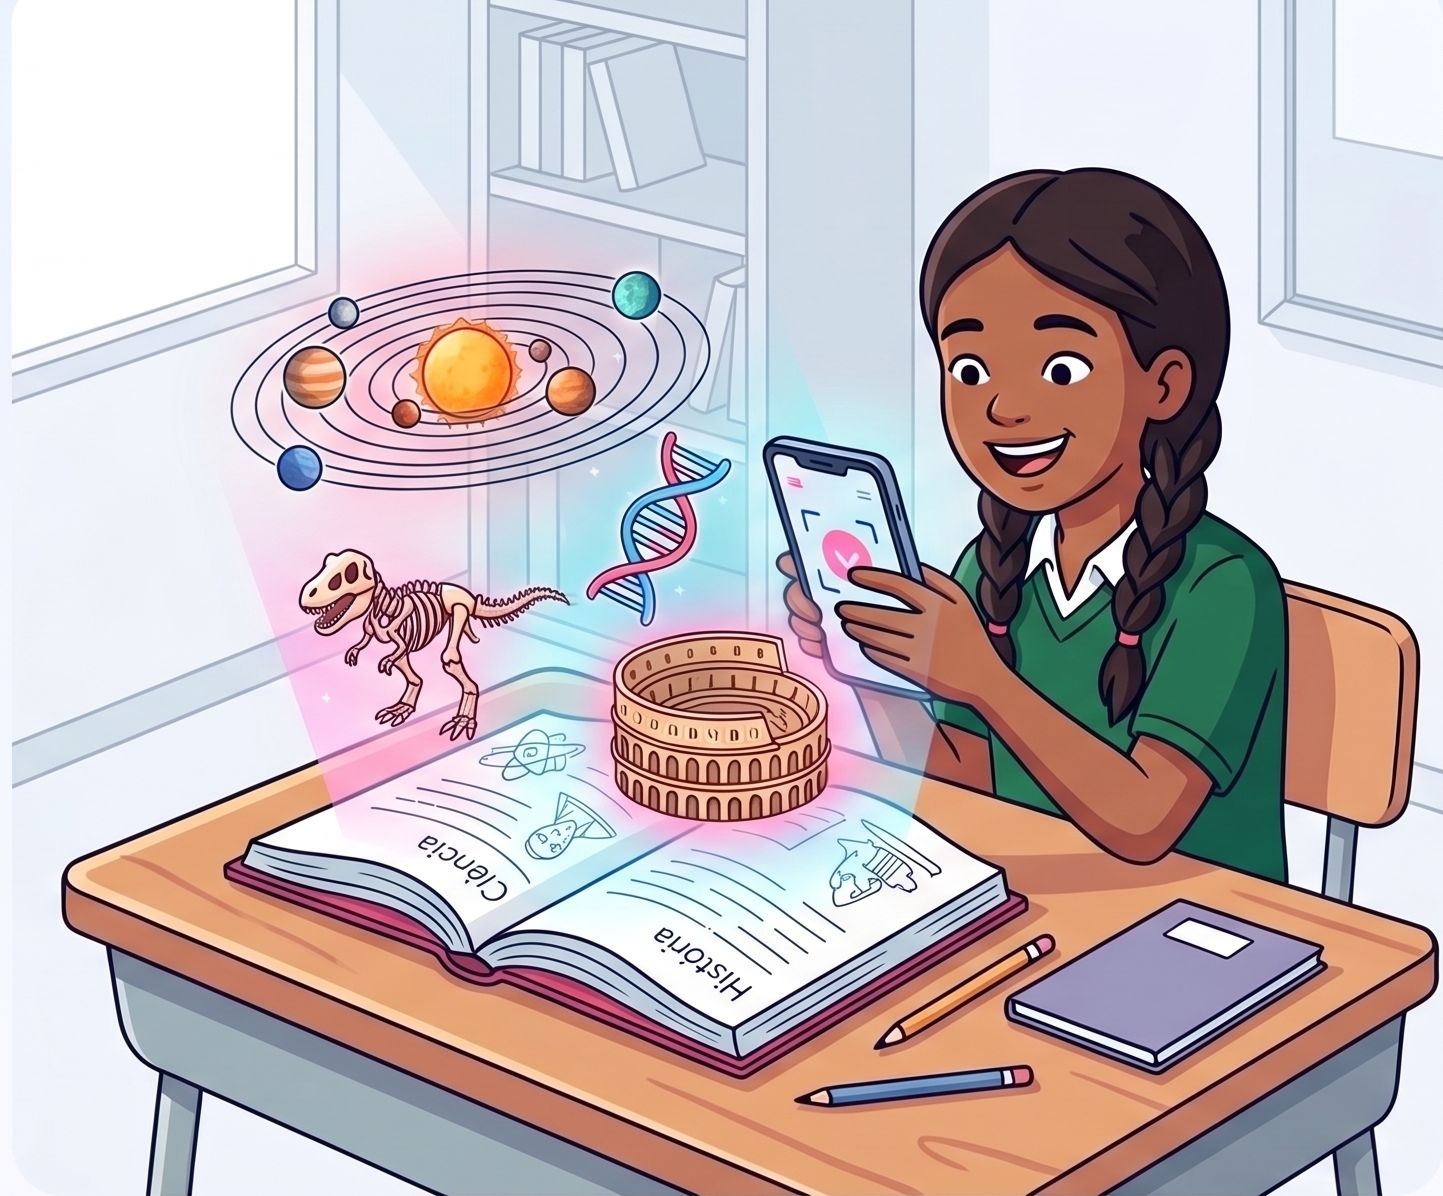
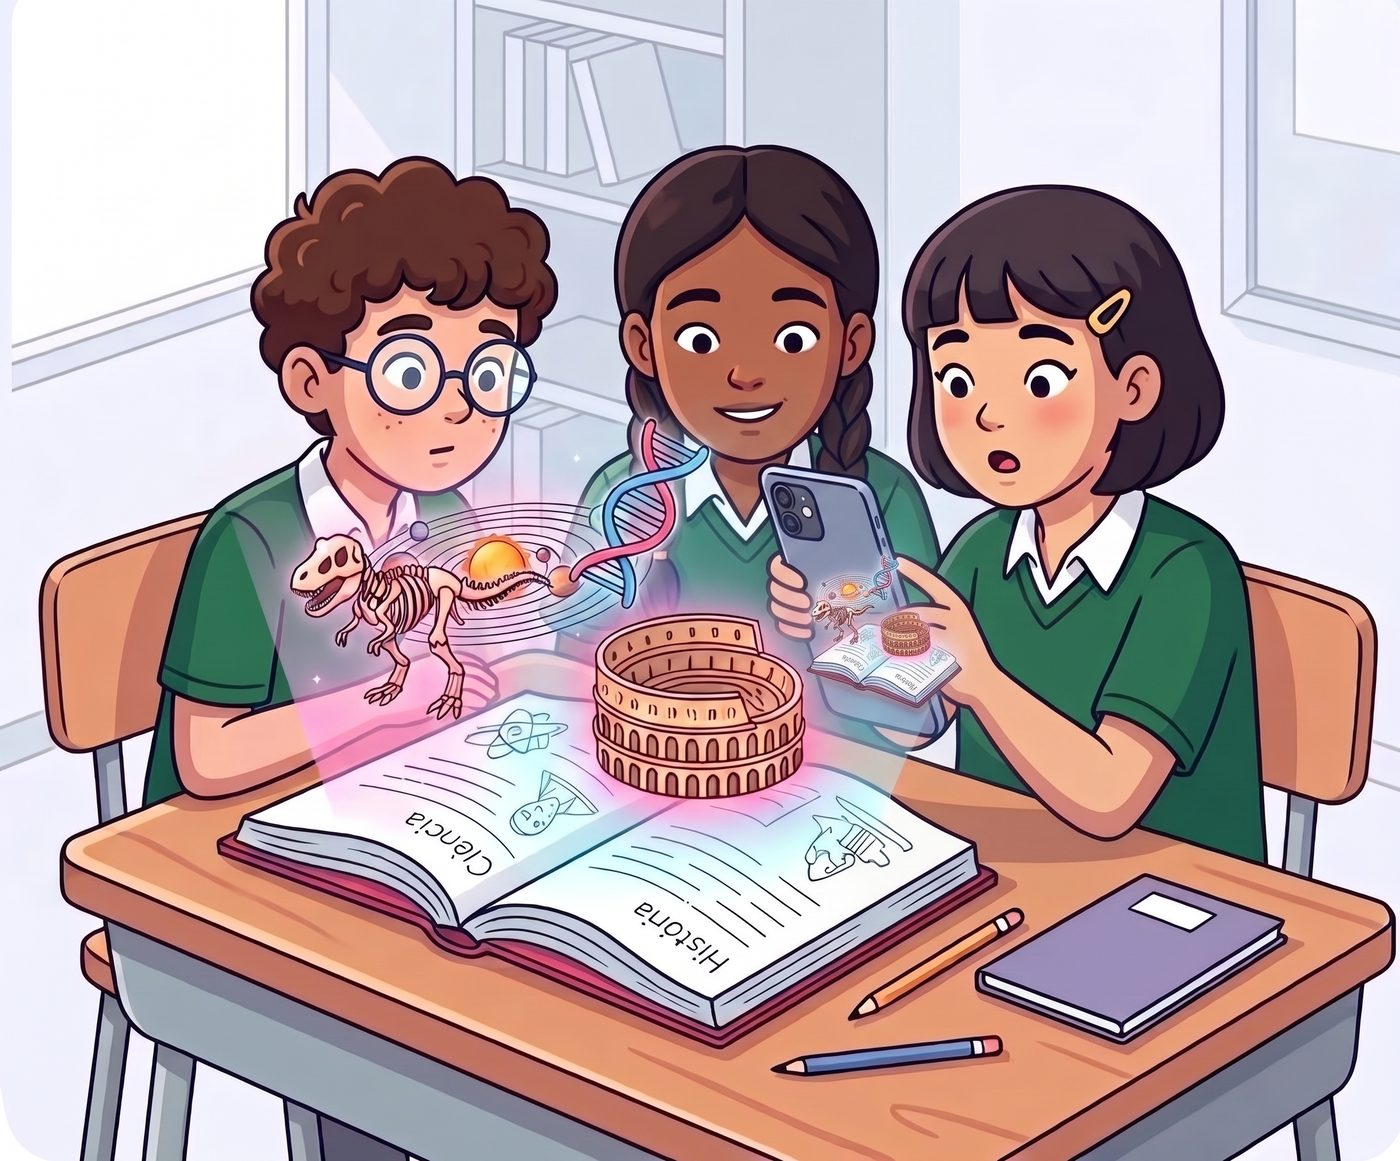
Reposiciona a landing page com base no feedback da mentoria
A banca apontou que o projeto focou em acessibilidade técnica (funciona
em qualquer celular) mas não nos pontos que o tema do hackathon
("relação consciente entre tecnologia e educação") realmente cobra:
celular é restrito em escolas, nem todo aluno tem um, e "ser legal" não
basta pra competir com redes sociais pela atenção.

Resposta, espalhada em vários pontos da página (não um bloco isolado,
de propósito):
- Hero: troca a ilustração (era 1 aluna sozinha com o celular, agora um
  grupo reagindo junto) e ajusta a chamada pra "descobrir junto com a
  turma" em vez de "direto na palma da mão". Também tira a alegação de
  que o bicho "sai da página" — não é mais verdade desde que o cartão
  de prévia usa <model-viewer> (ver CLAUDE.md); a descrição agora é
  precisa (ganha vida na tela + modo avançado planta em tamanho real).
- Seção nova "Feito pra ser vivido em grupo": resposta direta a uso
  pontual/guiado pelo professor (compatível com a legislação sobre
  celular em escola), não depender de celular por aluno (descoberta em
  grupo, um já basta) e o porquê de não competir com feed infinito.
  Público declarado: crianças e adolescentes, sem linguagem excludente.
- Carrossel: reescreve o slide de bem-estar (era vago) pra reforçar o
  mesmo discurso de descoberta em grupo.
- "Quem apoia esse projeto" (logos placeholder de patrocinador) vira
  "Nos apoie": formas reais de ajudar o projeto a chegar em escolas.
[…]

diff --git a/index.html b/index.html
@@ -4,7 +4,7 @@
   <meta charset="UTF-8" />
   <meta name="viewport" content="width=device-width, initial-scale=1.0" />
   <title>Vivalivros — Aprenda escaneando o mundo</title>
-  <meta name="description" content="Aponte a câmera do celular pra um livro didático e veja a matéria ganhar vida em Realidade Aumentada. Um projeto de escola sobre tecnologia, aprendizado e uso consciente do celular." />
+  <meta name="description" content="Aponte a câmera do celular pra um livro didático e veja a matéria ganhar vida em Realidade Aumentada, em grupo com a turma. Um projeto de escola pra crianças e adolescentes sobre tecnologia, aprendizado e uso consciente do celular." />
   <link rel="preconnect" href="https://fonts.googleapis.com" />
   <link rel="preconnect" href="https://fonts.gstatic.com" crossorigin />
   <link href="https://fonts.googleapis.com/css2?family=Nunito:wght@400;600;700;800&family=Quicksand:wght@600;700&display=swap" rel="stylesheet" />
@@ -75,7 +75,7 @@
         <a href="#topo">Início</a>
         <a href="#como-funciona">Como Funciona</a>
         <a href="#conteudos">Conteúdos</a>
-        <a href="#patrocinadores">Patrocinadores</a>
+        <a href="#patrocinadores">Nos apoie</a>
         <a href="#contato">Contato</a>
         <a href="#comece" class="btn-primary site-nav__cta">Entrar / Criar Conta</a>
       </nav>
@@ -96,14 +96,14 @@
             Aponte a câmera do celular pras imagens do seu livro didático e
             veja a matéria ganhar vida em Realidade Aumentada — sem
             precisar instalar nada. Ciência, história e o que você tá
-            estudando, direto na palma da mão!
+            estudando, num momento pra descobrir junto com a turma.
           </p>
           <div class="hero__actions">
             <a href="#comece" class="btn-primary">Comece agora</a>
             <a href="#como-funciona" class="btn-secondary">Ver como funciona</a>
           </div>
         </div>
-        <img class="hero__art" src="assets/img/HeroVivaLivros.jpg" alt="Aluna sorrindo segurando o celular, com conteúdo em Realidade Aumentada saindo de um livro didático aberto na carteira: sistema solar, DNA, esqueleto de dinossauro e um coliseu." width="1443" height="1196" />
+        <img class="hero__art" src="assets/img/HeroVivaLivros.jpg" alt="Três alunos reunidos ao redor de um celular só, reagindo juntos ao conteúdo em Realidade Aumentada que aparece sobre o livro didático aberto na carteira: sistema solar, DNA, esqueleto de dinossauro e um coliseu." width="1400" height="1161" />
       </div>
     </section>
 
@@ -132,7 +132,7 @@
           </div>
           <div class="meta-card">
             <strong class="meta-card__number">100%</strong>
-            <span class="meta-card__label">de foco em uso consciente do celular</span>
+            <span class="meta-card__label">de foco em uso consciente e coletivo do celular</span>
           </div>
         </div>
       </div>
@@ -151,8 +151,8 @@
                 </div>
                 <h3>O que é Realidade Aumentada educacional?</h3>
                 <p>É like mágica, mas é tecnologia! A câmera do celular
-                  reconhece a imagem do seu livro e faz um modelo 3D
-                  "sair" da página, animado, na tela.</p>
+                  reconhece a imagem do seu livro e a matéria ganha vida
+                  na hora, animada, na tela.</p>
               </li>
               <li class="carousel__slide">
                 <div class="carousel__art img-placeholder" data-placeholder-label="Ilustração: mão segurando celular escaneando uma página de livro">
@@ -173,13 +173,13 @@
                   conteúdo que você já vê em sala de aula.</p>
               </li>
               <li class="carousel__slide">
-                <div class="carousel__art img-placeholder" data-placeholder-label="Ilustração: aluno respirando/tranquilo, celular de lado">
+                <div class="carousel__art img-placeholder" data-placeholder-label="Ilustração: grupo de alunos reunidos ao redor de um celular, sorrindo juntos">
                   <svg class="icon icon--lg"><use href="#icon-smile"></use></svg>
                 </div>
-                <h3>Bem-estar em primeiro lugar</h3>
-                <p>A gente lembra você de fazer pausas, respirar e não
-                  ficar preso na tela — porque aprender é ótimo, mas o
-                  seu bem-estar vem sempre antes.</p>
+                <h3>Feito pra descobrir em grupo</h3>
+                <p>Não precisa de um celular por aluno — a experiência foi
+                  pensada pra reunir a turma ao redor de uma descoberta,
+                  não pra isolar cada um na própria tela.</p>
               </li>
             </ul>
           </div>
@@ -231,6 +231,44 @@
       </div>
     </section>
 
+    <!-- Por que em grupo / uso consciente — resposta direta a três
+         preocupações reais: celular na escola (uso pontual, guiado pelo
+         professor), quem não tem celular próprio (um só já basta pro
+         grupo) e "por que isso e não uma rede social" (é uma descoberta
+         coletiva com começo e fim, não um feed infinito). -->
+    <section class="steps" id="uso-consciente">
+      <div class="container">
+        <h2 class="section-title section-title--center">Feito pra ser vivido em grupo</h2>
+        <p class="section-subtitle section-subtitle--center">
+          Enquanto o feed prende cada um sozinho na própria tela, aqui a
+          ideia é o contrário.
+        </p>
+        <div class="steps__grid">
+          <div class="step-card">
+            <svg class="icon icon--lg"><use href="#icon-user"></use></svg>
+            <h3>Descoberta em grupo</h3>
+            <p>A matéria ganhando vida na tela é motivo pra chamar todo
+              mundo ao redor — não precisa de um celular por aluno, um
+              já é suficiente pra turma inteira descobrir junto.</p>
+          </div>
+          <div class="step-card">
+            <svg class="icon icon--lg"><use href="#icon-check"></use></svg>
+            <h3>Uso pontual, guiado pelo professor</h3>
+            <p>O celular entra em sala num momento específico da aula,
+              com começo e fim definidos pelo professor — não é uso
+              livre, é uso com propósito.</p>
+          </div>
+          <div class="step-card">
+            <svg class="icon icon--lg"><use href="#icon-smile"></use></svg>
+            <h3>Feito pra crianças e adolescentes</h3>
+            <p>Pensado pra esse público aprender brincando — e, sem
+              forçar a barra, quem testou com idades bem diferentes
+              também curtiu.</p>
+          </div>
+        </div>
+      </div>
+    </section>
+
     <!-- Comece agora: entrada real do app -->
     <section class="comece" id="comece">
       <div class="container">
@@ -263,22 +301,41 @@
       </div>
     </section>
 
-    <!-- Patrocinadores -->
+    <!-- Nos apoie (antes "Patrocinadores"/logos placeholder — trocado por
+         formas concretas de apoiar, já que não há patrocínio confirmado
+         ainda; mais honesto e mais útil pra quem visita a página). -->
     <section class="sponsors" id="patrocinadores">
       <div class="container">
-        <h2 class="section-title section-title--center">Quem apoia esse projeto</h2>
+        <h2 class="section-title section-title--center">Nos apoie</h2>
         <p class="section-subtitle section-subtitle--center">
-          Espaço reservado pra logos de apoiadores confirmados — ainda não
-          temos patrocínio fechado, esses são só placeholders.
+          A Vivalivros nasceu num hackathon — pra chegar em escolas de
+          verdade, a gente precisa de ajuda. Veja como dá pra apoiar:
         </p>
-        <div class="sponsors__grid">
-          <div class="sponsor-slot img-placeholder" data-placeholder-label="Logo do patrocinador 1">Patrocinador</div>
-          <div class="sponsor-slot img-placeholder" data-placeholder-label="Logo do patrocinador 2">Patrocinador</div>
-          <div class="sponsor-slot img-placeholder" data-placeholder-label="Logo do patrocinador 3">Patrocinador</div>
-          <div class="sponsor-slot img-placeholder" data-placeholder-label="Logo do patrocinador 4">Patrocinador</div>
-          <div class="sponsor-slot img-placeholder" data-placeholder-label="Logo do patrocinador 5">Patrocinador</div>
-          <div class="sponsor-slot img-placeholder" data-placeholder-label="Logo do patrocinador 6">Patrocinador</div>
+        <div class="steps__grid">
+          <div class="step-card">
+            <svg class="icon icon--lg"><use href="#icon-book"></use></svg>
+            <h3>Indique uma escola parceira</h3>
+            <p>Conhece uma escola disposta a testar o projeto de verdade
+              em sala de aula? Esse é o apoio mais valioso que a gente
+              pode receber agora.</p>
+          </div>
+          <div class="step-card">
+            <svg class="icon icon--lg"><use href="#icon-star"></use></svg>
+            <h3>Apoio financeiro ou patrocínio</h3>
+            <p>Ajuda a bancar hospedagem, novos modelos 3D e conteúdo
+              didático real pra mais matérias e animais.</p>
+          </div>
+          <div class="step-card">
+            <svg class="icon icon--lg"><use href="#icon-zap"></use></svg>
+            <h3>Compartilhe o projeto</h3>
+            <p>Conta pra outros professores, coordenadores ou colegas —
+              cada pessoa que conhece o projeto ajuda ele a crescer.</p>
+          </div>
         </div>
+        <p class="section-subtitle section-subtitle--center">
+          Quer conversar sobre alguma dessas formas de ajudar?
+          <a href="#contato">Fala com a gente</a>.
+        </p>
       </div>
     </section>
   </main>
@@ -296,7 +353,7 @@
         <a href="#topo">Início</a>
         <a href="#como-funciona">Como Funciona</a>
         <a href="#conteudos">Conteúdos</a>
-        <a href="#patrocinadores">Patrocinadores</a>
+        <a href="#patrocinadores">Nos apoie</a>
       </div>
 
       <div class="site-footer__links">

diff --git a/README.md b/README.md
@@ -94,8 +94,9 @@ projetar a mesma imagem pra turma escanear.
 - Mais matérias além de Ciências no painel do professor.
 - Algumas ilustrações da página inicial (ícones do carrossel) ainda são
   espaços reservados, sem arte final.
-- Logos de patrocinadores na página inicial — sem patrocínio confirmado
-  ainda, são só espaços reservados.
+- Sem patrocínio confirmado ainda — em vez de logos placeholder, a seção
+  "Nos apoie" já lista formas concretas de ajudar (indicar escola
+  parceira, apoio financeiro, divulgação).
 
 ### Avisos importantes
 
@@ -113,8 +114,9 @@ projetar a mesma imagem pra turma escanear.
 - **Os números da seção "Pra onde a gente quer ir"** (tipo "+1.000
   alunos") são objetivos/sonhos do time, não números reais já
   alcançados — o projeto acabou de sair de um hackathon.
-- **As logos de patrocinadores são só placeholders**, sem nenhum
-  patrocínio confirmado até agora.
+- **Não há patrocínio confirmado até agora** — a seção "Nos apoie" é um
+  convite real pra quem quiser ajudar (escola parceira, apoio
+  financeiro, divulgação), não uma lista de apoiadores existentes.
 
 ---
 
@@ -350,11 +352,27 @@ nunca assumir que a matrícula em si é a chave.
       não implementado ainda.
 
 **Landing page:**
-- [x] Ilustração real do hero e logo da marca já adicionadas
-      (`assets/img/HeroVivaLivros.jpg`, `assets/img/logo-mark.png`).
-- [ ] Ícones/ilustrações do carrossel ainda são `.img-placeholder`.
-- [ ] Logos reais de patrocinadores — só trocar quando houver
-      patrocínio confirmado (ver aviso na Seção 1).
+- [x] Ilustração real do hero (grupo de alunos, não um aluno sozinho —
+      trocada de propósito pra combinar com o discurso de uso em grupo)
+      e logo da marca já adicionadas (`assets/img/HeroVivaLivros.jpg`,
+      `assets/img/logo-mark.png`).
+- [x] **Reposicionamento pós-mentoria**: o discurso da página mudou de
+      "olha que tecnologia legal" pra responder de frente 3 pontos que a
+      banca levantou — celular na escola (uso pontual, guiado pelo
+      professor), quem não tem celular próprio (não precisa de um por
+      aluno) e "por que isso e não uma rede social" (descoberta em
+      grupo, não feed infinito). Isso aparece em vários pontos da
+      página (hero, carrossel, seção nova "Feito pra ser vivido em
+      grupo"), não só num bloco isolado — de propósito, pra não parecer
+      remendo. Público declarado: crianças e adolescentes, sem excluir
+      quem mais gostar.
+- [x] Seção "Quem apoia esse projeto" (logos placeholder) virou "Nos
+      apoie" — formas concretas de ajudar (escola parceira, apoio
+      financeiro, divulgação) em vez de placeholders de patrocinador
+      inexistente.
+- [ ] Ícones/ilustrações do carrossel ainda são `.img-placeholder`
+      (exceto o slide de descoberta em grupo, que já reaproveita o
+      ícone de sorriso existente).
 - [x] Texto da landing page corrigido: não menciona mais "check-in de
       presença" (a feature foi removida do app antes, mas o texto de
       marketing tinha ficado pra trás).
